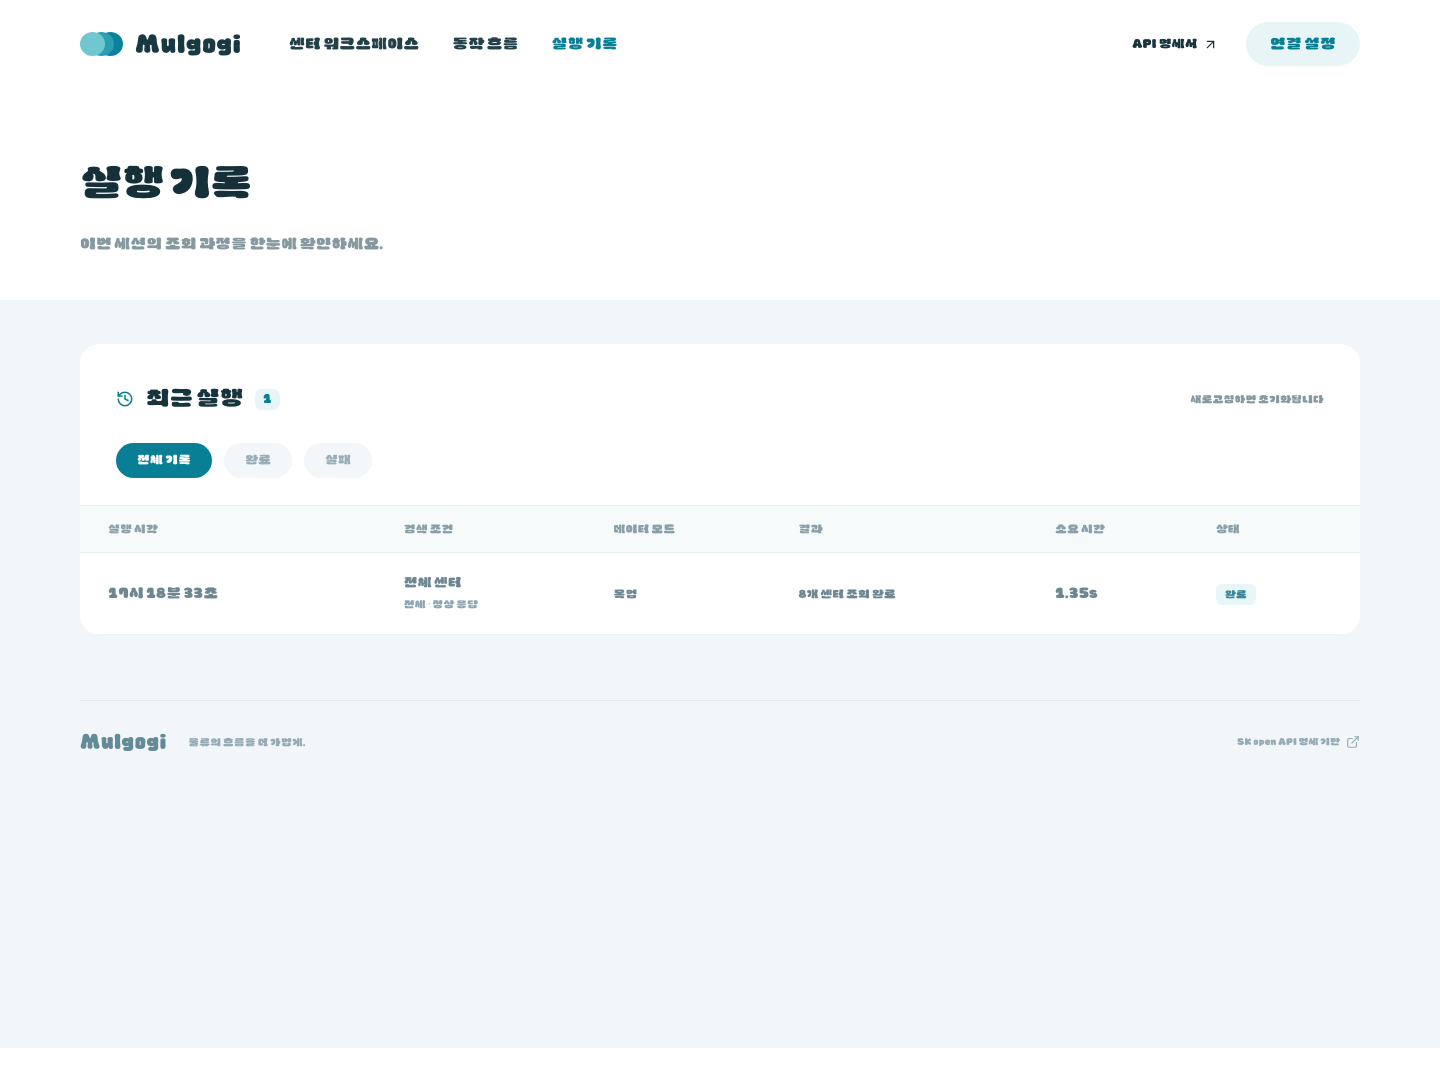
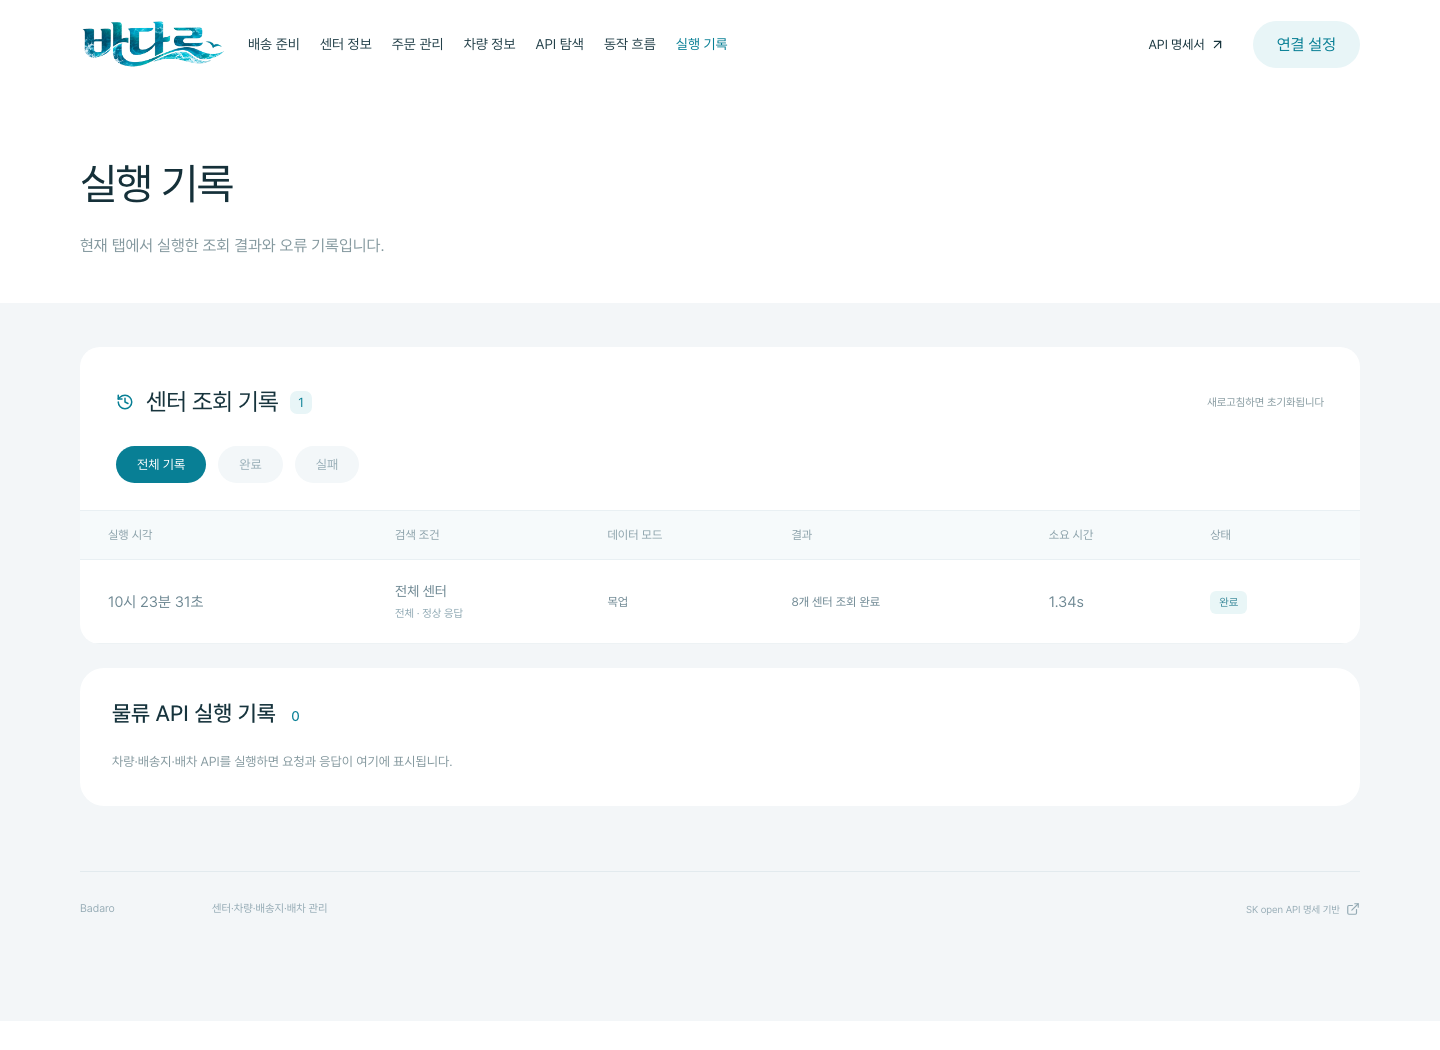
docs: 배차 개발 화면 문구와 작성 기준 정리 #18

diff --git a/src/views/WorkspaceView.vue b/src/views/WorkspaceView.vue
@@ -320,7 +320,7 @@ onMounted(run)
               activePage === 'centers'
                 ? '센터 조회하기'
                 : activePage === 'flow'
-                  ? '눈으로 확인하는 동작 흐름'
+                  ? '조회 처리 과정'
                   : '실행 기록'
             }}
           </h1>
@@ -330,7 +330,7 @@ onMounted(run)
             :active="activeSection"
             @select="navigateSection"
           />
-          <p v-else class="hero-description">이번 세션의 조회 과정을 한눈에 확인하세요.</p>
+          <p v-else class="hero-description">현재 탭에서 실행한 조회 결과와 오류 기록입니다.</p>
         </div>
       </section>
 
@@ -422,7 +422,7 @@ onMounted(run)
                 />
                 <div class="list-caption">
                   <span>{{ appliedFilter }}</span
-                  ><span>센터를 선택하면 상세 정보를 확인할 수 있어요</span>
+                  ><span>목록에서 센터를 선택하면 상세 정보를 표시합니다.</span>
                 </div>
                 <div v-if="running" class="empty-state" role="status">
                   <LoaderCircle :size="25" class="spin" /><strong>센터를 불러오고 있습니다</strong
@@ -439,7 +439,7 @@ onMounted(run)
                   ><span>{{
                     error
                       ? '오류 내용을 확인한 뒤 다시 실행해 주세요.'
-                      : '검색 조건 또는 테스트 시나리오를 변경해 보세요.'
+                      : '검색 조건 또는 테스트 시나리오를 변경하세요.'
                   }}</span>
                 </div>
                 <div v-else class="table-scroll">
@@ -589,7 +589,7 @@ onMounted(run)
                   <p>
                     {{
                       connection.mode === 'mock'
-                        ? 'API 키 없이 먼저 체험해 보세요.'
+                        ? 'API 키 없이 목업 데이터를 조회합니다.'
                         : '연결한 서버의 응답을 확인합니다.'
                     }}
                   </p>
@@ -671,7 +671,7 @@ onMounted(run)
                     running ? '실행 중' : error ? '실패' : lastRun ? '완료' : '대기'
                   }}</span>
                 </div>
-                <p class="panel-description">입력부터 결과까지, 단계별로 확인하세요.</p>
+                <p class="panel-description">입력 확인, API 호출, 응답 검증, 검색, 결과 표시 순서입니다.</p>
                 <ol class="flow-steps" aria-live="polite">
                   <li v-for="(step, index) in steps" :key="step.title" :class="step.status">
                     <span class="step-marker"
@@ -774,7 +774,7 @@ onMounted(run)
           <TmsHistory v-if="activePage === 'history'" />
           <footer class="page-footer">
             <RouterLink to="/" class="footer-brand">Badaro</RouterLink
-            ><span>물류의 흐름을 더 가볍게.</span
+            ><span>센터·차량·배송지·배차 관리</span
             ><a :href="API_REFERENCE" target="_blank" rel="noreferrer"
               >SK open API 명세 기반<ExternalLink :size="14"
             /></a>
@@ -802,14 +802,14 @@ onMounted(run)
               <X :size="20" />
             </button>
           </div>
-          <p class="modal-intro">지금은 목업으로 시작하고, API 준비 후 연결하세요.</p>
+          <p class="modal-intro">목업 데이터를 사용하거나 센터 목록 조회 서버를 연결할 수 있습니다.</p>
           <form @submit.prevent="saveSettings">
             <fieldset class="mode-options">
               <legend>데이터 소스</legend>
               <label :class="{ chosen: draftConnection.mode === 'mock' }"
                 ><input v-model="draftConnection.mode" type="radio" value="mock" /><span
                   ><strong>목업 데이터</strong
-                  ><small>앱 키 없이 모든 시나리오를 테스트합니다.</small></span
+                  ><small>앱 키 없이 센터 조회 테스트를 실행합니다.</small></span
                 ><span class="recommended">기본</span></label
               ><label :class="{ chosen: draftConnection.mode === 'proxy' }"
                 ><input v-model="draftConnection.mode" type="radio" value="proxy" /><span

diff --git a/src/views/DispatchWorkflowView.vue b/src/views/DispatchWorkflowView.vue
@@ -69,7 +69,7 @@ function toggleAll(kind: 'orders' | 'vehicles') {
         <div class="page-container">
           <p class="workflow-eyebrow">TODAY’S DELIVERY</p>
           <h1>오늘의 배송 준비</h1>
-          <p class="logistics-intro">센터에서 마지막 배송지까지, 순서대로 준비해 보세요.</p>
+          <p class="logistics-intro">출발 센터, 주문, 차량을 선택하고 배차 조건을 설정하세요.</p>
           <nav aria-label="배차 진행 단계" class="workflow-steps">
             <ol>
               <li
@@ -349,7 +349,7 @@ function toggleAll(kind: 'orders' | 'vehicles') {
                 <div class="calculation-ripple" aria-hidden="true">
                   <span></span><span></span><span></span>
                 </div>
-                <h3>배송 계획을 계산하고 있어요</h3>
+                <h3>배송 계획을 계산하고 있습니다</h3>
                 <p>
                   {{
                     state.mappingKey
@@ -489,7 +489,7 @@ function toggleAll(kind: 'orders' | 'vehicles') {
       </div>
     </main>
     <footer class="logistics-footer">
-      <RouterLink to="/">Badaro</RouterLink><span>물류의 흐름을, 바다로.</span>
+      <RouterLink to="/">Badaro</RouterLink><span>센터·차량·배송지·배차 관리</span>
     </footer>
   </div>
 </template>

diff --git a/src/views/LogisticsView.vue b/src/views/LogisticsView.vue
@@ -16,12 +16,12 @@ const pages: Record<string, { title: string; intro: string; steps: string[] }> =
   },
   orders: {
     title: '주문 정보 관리',
-    intro: '배송할 장소와 물량을 한곳에서 관리하세요.',
+    intro: '배송지 주소와 배송 물량을 등록하세요.',
     steps: [],
   },
   api: {
     title: 'API 살펴보기',
-    intro: '요청부터 응답까지, 물류 데이터가 움직이는 과정.',
+    intro: 'API별 요청 항목과 목업 응답을 확인하세요.',
     steps: ['API 선택', '요청 구성', '목업 실행', '응답 확인'],
   },
 }
@@ -104,7 +104,7 @@ const latest = computed(() => tmsLogs[0])
       </div>
     </main>
     <footer class="logistics-footer">
-      <RouterLink to="/">Badaro</RouterLink><span>물류의 흐름을, 바다로.</span
+      <RouterLink to="/">Badaro</RouterLink><span>센터·차량·배송지·배차 관리</span
       ><small>SK TMS Open API · 프론트엔드 데모</small>
     </footer>
   </div>

diff --git a/tests/e2e/workspace.spec.ts b/tests/e2e/workspace.spec.ts
@@ -103,7 +103,7 @@ test('모바일 레이아웃과 키보드로 설정 닫기', async ({ page }) =>
   await page.keyboard.press('Escape')
   await expect(page.getByRole('dialog')).not.toBeVisible()
   await page.getByRole('button', { name: '동작 흐름', exact: true }).click()
-  await expect(page.getByRole('heading', { name: '눈으로 확인하는 동작 흐름' })).toBeVisible()
+  await expect(page.getByRole('heading', { name: '조회 처리 과정' })).toBeVisible()
 })
 
 test('구간 이동과 실행 상태 필터가 조회 결과에 맞게 작동한다', async ({ page }) => {

diff --git a/src/components/TmsExplorer.vue b/src/components/TmsExplorer.vue
@@ -42,7 +42,7 @@ async function send() {
     <div class="tms-section-heading">
       <div>
         <h2>API 샘플 실행</h2>
-        <p>센터부터 교차금지선까지, 24개 API를 연결해 살펴보세요.</p>
+        <p>센터·차량·배송지 등 24개 API의 요청과 목업 응답을 확인합니다.</p>
       </div>
       <span class="tms-count">24 APIs</span>
     </div>

diff --git a/index.html b/index.html
@@ -6,7 +6,7 @@
     <meta name="theme-color" content="#5295a0" />
     <meta
       name="description"
-      content="센터 조회부터 결과까지, TMS API의 동작 흐름을 확인하는 Vue 데모 워크스페이스"
+      content="센터·차량·배송지 관리와 TMS 목업 배차를 시연하는 바다로"
     />
     <title>Badaro</title>
     <link

diff --git a/src/components/WorkspaceHeader.vue b/src/components/WorkspaceHeader.vue
@@ -31,7 +31,7 @@ const links = [
         </button>
       </nav>
       <div class="header-actions">
-        <slot><span class="mock-badge">MOCK DEMO</span></slot>
+        <slot><span class="mock-badge">목업 모드</span></slot>
       </div>
     </div>
   </header>

diff --git a/CONTRIBUTING.md b/CONTRIBUTING.md
@@ -1,0 +1,88 @@
+# 협업 규칙
+
+팀별 작업 경로, 검토 절차, 문서 작성 기준을 정리한다.
+
+## 1. 브랜치
+
+- `main` 에는 직접 push 하지 않는다. PR로만 들어간다.
+- 작업 브랜치 이름: `feat/영역-내용` 또는 `fix/영역-내용`
+  예) `feat/tools-geocode`, `feat/mw-retry`, `fix/agent-import`
+- 이슈 하나 = 브랜치 하나 = PR 하나. 머지되면 브랜치는 지운다.
+
+## 2. 폴더 소유
+
+프론트(Vue)는 저장소 루트의 `src/`, 에이전트(Python)는 `agent/` 아래에 둔다. 담당 폴더에서 작업한다. 다른 담당자의 파일을 수정해야 하면 대상 파일과 사유를 PR 본문에 적어 요청한다.
+
+| 폴더 | 담당 |
+|---|---|
+| `src/`, `tests/`, `public/`, `index.html`, vite·eslint 설정 (프론트) | 김강휘 |
+| `agent/badaro/schemas/`, `agent/prompts/` | 이준형 |
+| `agent/badaro/tools/`, `agent/data/`, `docs/tms-api.md`, `docs/api/` | 권유나 |
+| `agent/badaro/middleware/`, `agent/badaro/guardrails/` | 윤소영 |
+| `agent/tests/` | 김강휘 |
+| `agent/badaro/agent.py`, `agent/requirements.txt`, `agent/pyproject.toml`, `agent/.env.example`, `README.md`, `docs/`(설계서), `.github/` | 김동찬 |
+
+공용 파일(`agent.py`, `requirements.txt`, `pyproject.toml`, `.env.example`, `README.md`)에 추가할 내용은 PR 본문에 대상 위치와 함께 요청한다.
+
+## 3. 작업 순서
+
+```bash
+git switch main && git pull
+git switch -c feat/tools-geocode      # 이슈 하나당 하나
+# ... 작업, 커밋 ...
+git pull --rebase origin main         # PR 올리기 직전에 꼭
+git push -u origin feat/tools-geocode
+```
+
+GitHub에서 PR을 만든다. 리뷰어 1명의 검토와 CI 통과 후 **Squash and merge**한다.
+
+## 4. 커밋 메시지
+
+`영역: 무엇을 (왜)` 한 줄. 이슈 번호가 있으면 뒤에 `#12`.
+
+```
+tools: geocode 결과 캐시 추가 (같은 주소 반복 호출 줄이려고) #8
+schemas: priority 를 Literal 로 고정 (설계서 2.4) #5
+```
+
+다른 팀원이 변경 배경을 확인할 수 있도록 사유를 적는다.
+
+## 5. PR
+
+- PR은 한 작업 단위로 작성한다. 변경이 300줄을 넘으면 PR을 나눈다.
+- PR 템플릿의 변경 내용·변경 이유·확인한 결과를 작성한다.
+- 설계와 다르게 구현했으면 PR에 적고, `docs/` 설계서의 **문서 변경 이력** 표에도 한 줄 추가한다.
+- 리뷰 요청은 30분 이내에 확인한다. 바로 검토할 수 없으면 예상 시간을 공유한다.
+
+## 6. 하지 말 것
+
+- `.env`, API 키 커밋. `.env.example` 에 키 이름만.
+- 노트북 출력 셀 포함 커밋. 노트북은 `notebooks/자기이름/` 에만, 출력 지우고.
+- 불필요한 실제 TMS 배차 요청(`/allocation`). 프로젝트에서 사용하는 한도는 **하루 20건**이다. 실호출은 권유나·김동찬만, 나머지는 `USE_MOCK=1` 또는 프론트 목업.
+- `main` 직접 push, `git push --force`.
+
+## 7. 충돌 났을 때
+
+```bash
+git pull --rebase origin main
+# 충돌 파일 고치기 → git add <파일> → git rebase --continue
+```
+
+충돌을 해결하기 어려우면 해당 파일과 충돌 내용을 담당자에게 공유한다.
+
+## 8. 문구 작성
+
+문서·화면·이슈·PR은 실제 작업과 결과를 설명한다. 과장된 홍보 문구, 상투적인 도입과 요약, 불필요한 영문·수식어를 줄인다.
+
+- 주체와 행동을 적는다. 기능 설명은 입력·처리·출력, 오류 안내는 원인·다음 행동을 중심으로 쓴다.
+- 제안, 미정, 개발 중, 검증 완료를 구분한다. 완료 여부와 수치는 확인한 근거가 있을 때만 쓴다.
+- API명·필드명·기술 용어·테스트 입력의 뜻은 유지한다. 사용자 발화와 팀원 댓글을 문체 수정 목적으로 바꾸지 않는다.
+- 문맥에 맞는 짧은 문장을 쓴다. 같은 내용을 도입·본문·결론에서 반복하지 않는다.
+
+| 수정 전 | 수정 후 |
+| --- | --- |
+| 물류의 흐름을 더 가볍게 | 센터·차량·배송지·배차 관리 |
+| 조회 과정을 한눈에 확인하세요 | 현재 탭에서 실행한 조회 결과와 오류 기록입니다 |
+| 이것만 지키면 충돌 안 납니다 | 팀별 작업 경로와 검토 절차를 따릅니다 |
+
+자동화 도구에도 같은 기준을 적용한다. 저장소의 `AGENTS.md`에 작업 지침을 둔다.

diff --git a/README.md b/README.md
@@ -1,6 +1,6 @@
 # Badaro · 물류 워크스페이스
 
-Vue 3 + TypeScript + Vite로 구현한 센터·차량·배송지 관리와 배차 흐름을 시연하는 프론트엔드입니다. `/Users/hwi/skala-workspace/skala-langchain` 폴더가 프로젝트 루트입니다.
+Vue 3 + TypeScript + Vite로 구현한 센터·차량·배송지 관리와 배차 흐름을 시연하는 프론트엔드입니다. 저장소를 clone한 폴더가 프로젝트 루트입니다.
 
 ## 실행
 
@@ -40,7 +40,7 @@ Vue Router로 URL, 뒤로가기, 직접 접속을 지원합니다. 정적 배포
 - 모바일 대응, 키보드 센터 선택 및 연결 설정 다이얼로그
 - 동일 출처 프록시를 통한 실제 API 호출 어댑터
 
-첨부된 `Agent_설계서_양식.md.docx`는 서비스 내용이 없는 양식이므로, 입력·Tool·응답 검증·오류 처리·테스트라는 설계 항목을 화면에 반영했습니다. **LLM/LangChain Agent, 자연어 분석, 실제 TMS 배차 최적화, 실제 지도 SDK, 백엔드는 구현하지 않았습니다.** 목업 검색과 검증은 실제로 실행되는 TypeScript 로직입니다.
+현재 화면에서는 입력 검증, API 응답 처리, 오류 복구를 시연할 수 있습니다. 검색·검증·목업 배차는 TypeScript로 실행됩니다. LLM/LangChain 에이전트, 자연어 분석, 실제 TMS 배차, 지도 SDK, 백엔드 연결은 개발 예정입니다.
 
 ## 배송 준비 순서
 
@@ -127,8 +127,8 @@ npm run test:e2e
 
 ## 로고
 
-사용자 제공 바다로 로고를 기반으로 한 투명 PNG는 `src/asset/badaro-logo.png`에 있습니다. 공통 `BadaroLogo.vue` 컴포넌트로 메인·헤더·푸터에 표시하며, `public/favicon.png`도 같은 이미지에서 만듭니다.
+바다로 로고의 투명 PNG는 `src/asset/badaro-logo.png`에 있습니다. 공통 `BadaroLogo.vue` 컴포넌트로 메인·헤더·푸터에 표시하며, `public/favicon.png`도 같은 이미지에서 만듭니다.
 
-이미지 도구의 배경 제거 결과에 불투명 체크무늬가 남아, 사용자 동의 후 로컬 처리로 알파 채널을 만들었습니다. 청록색 영역과 로고 내부의 밝은 파도 무늬를 보존하고 회색 배경을 제거했습니다. 결과는 2042×690 RGBA PNG이며 모서리와 빈 공간은 투명합니다. 추출 과정은 선택적 개발 도구인 `scripts/extract-logo.py`에 기록했습니다(Pillow·NumPy·SciPy 필요, 앱 실행에는 불필요).
+로고는 2042×690 RGBA PNG입니다. 청록색 로고와 내부 파도 무늬를 남기고 배경을 투명하게 처리했습니다. 추출 과정은 선택적 개발 도구인 `scripts/extract-logo.py`에 기록했습니다(Pillow·NumPy·SciPy 필요, 앱 실행에는 불필요).
 
 메인의 물고기 효과는 `src/components/JumpingFish.vue`에서 SVG와 CSS로 구현합니다. 데스크톱 3마리·모바일 2마리가 시차를 두고 두 번씩 뛰어오르며 꼬리·물방울·착수 물결이 함께 움직입니다. 장식 요소는 클릭을 가로채지 않고, 모션 감소 설정에서는 숨기며 탭이 비활성화되면 일시 정지합니다.

diff --git a/docs/design.md b/docs/design.md
@@ -2,7 +2,7 @@
 
 ## 범위와 전제
 
-사용자 요청은 프론트에서 API 응답에 따른 동작 로직을 시연하는 것입니다. 첨부 양식의 미작성 항목은 구현 요구 사항으로 간주하지 않았습니다. 센터 조회에 더해 차량·배송지·권역·교차금지선과 배차 요청을 포함합니다. [24개 API와 확장 목업 설계](tms-api.md)를 함께 참고하세요.
+이 문서는 현재 Vue 화면의 구성과 API 응답 처리 방법을 설명합니다. 센터·차량·배송지·권역·교차금지선 관리와 목업 배차 요청을 다룹니다. [24개 API와 확장 목업 설계](tms-api.md)를 함께 참고하세요.
 
 ## 흐름
 
@@ -63,7 +63,7 @@ flowchart LR
 
 ## 화면 구성과 시각 규칙
 
-메인은 물 표면 사진·일렁이는 진입 링크인 바다로 로고와 주변부의 작은 물고기 점프 효과로 구성합니다. 내부 화면은 제공된 신청서 화면 레퍼런스의 상단 가로 내비게이션, 큰 페이지 제목, 캡슐 모양 구간 표시, 좌측 입력 카드와 우측 테두리 요약 카드 구조를 따릅니다. 레퍼런스의 신청자명·휴대폰·결제 요소 대신 기존 센터 조회 기능을 배치합니다.
+메인에는 물 표면 사진, 바다로 로고, 물고기 애니메이션을 표시합니다. 로고를 누르면 센터 조회 화면으로 이동합니다. 내부 화면은 상단 메뉴, 페이지 제목, 구간 이동 버튼, 좌측 입력 영역, 우측 조회 요약으로 구성합니다.
 
 - 데스크톱: 콘텐츠 최대 1280px(1800px 이상 화면에서는 1440px), 좌우 약 2:1 비율, 카드 간격 48px(대형 화면 64px).
 - 입력: 높이 62px, 모서리 11px, 필드 간격 35px. 메인 입력 카드 모서리 20px, 요약 카드 모서리 28px.

diff --git a/AGENTS.md b/AGENTS.md
@@ -1,0 +1,15 @@
+# 작업 기준
+
+폴더 담당과 PR 절차는 `CONTRIBUTING.md`를 따른다.
+
+## 문구 작성
+
+- 사용자 답변, 문서, 화면, 이슈, PR에는 구체적인 업무 언어를 쓴다. 과장·상투어·추상적인 홍보 문구를 쓰지 않는다.
+- 누가 무엇을 하는지, 현재 구현된 범위와 남은 작업이 무엇인지 명확히 적는다. 미정·제안·개발 중·검증 완료를 구분한다.
+- 단순한 내용을 긴 도입이나 반복 요약으로 늘리지 않는다. 불필요한 영문, 수식어, 감탄, 친근함을 연출하는 문장을 줄인다.
+- 기능을 설명할 때 작업·입력·출력·오류·다음 행동을 직접 쓴다. 근거 없이 성능이나 편의성을 보장하지 않는다.
+- API명, 코드 식별자, 기술 용어, 수치, 테스트 입력은 의미와 동작을 보존한다. AI 기술을 설명하는 데 필요한 용어까지 지우지 않는다.
+- 문구 수정으로 요구사항·담당자·완료 상태를 바꾸지 않는다. 인용한 사용자 발화와 다른 작성자의 댓글은 기록으로 보존한다.
+- 금지어 일괄 치환보다 문맥을 읽고 고친다. 자연스러운 문장은 그대로 둔다.
+
+예: “배송 흐름을 그려보세요” 대신 “차량과 배송지를 선택하고 배차 조건을 설정하세요”처럼 쓴다.
